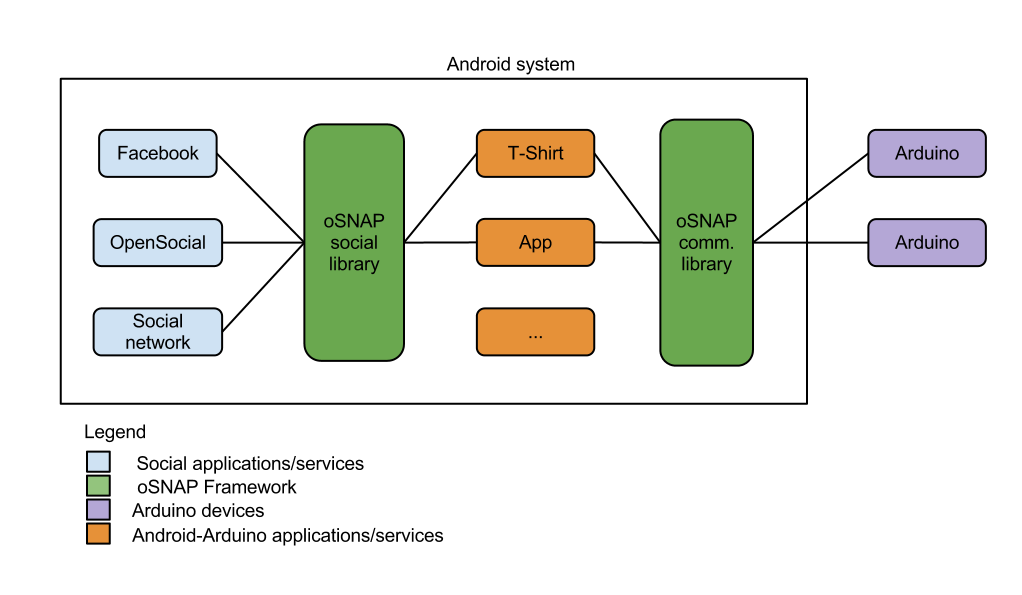
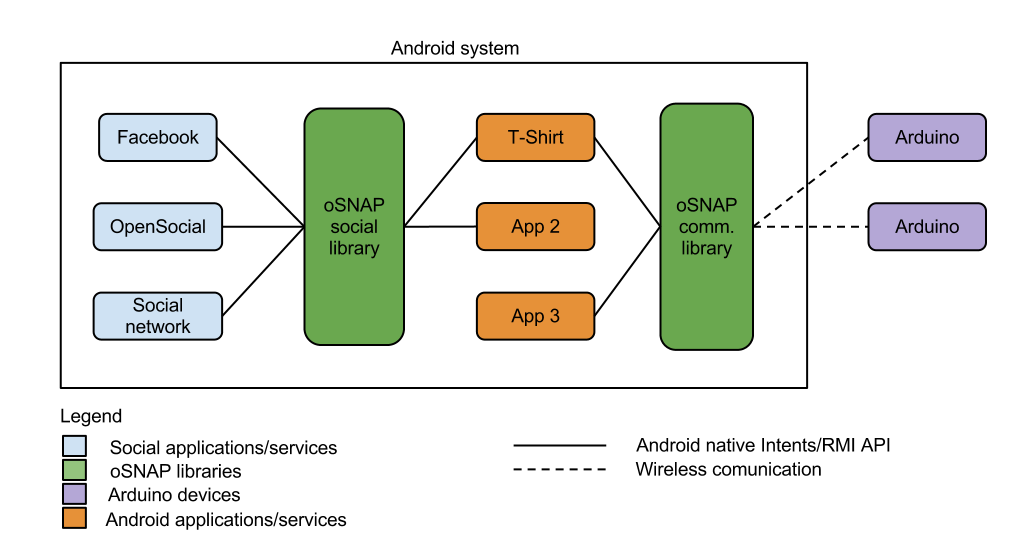
Some more images and stuff.. modified:   files/architecture.tex modified:   files/management.tex new file:   img/architecture-reqresp.png deleted:    img/architecture-toplevel.bak modified:   img/architecture-toplevel.png modified:   img/mgmt-wbs.png new file:   img/use-case1.png new file:   img/use

diff --git a/documentation/report/files/architecture.tex b/documentation/report/files/architecture.tex
@@ -34,17 +34,27 @@ using Android's Intent mechanism, between Social applications and the Android-Ar
 \newpage
 
 \subsection{First design}
-Our first design was based on the scenario where the user would
-download the t-shirt and the social applications and then browse for some content
-from within the social application and actively send it to the t-shirt application
-pressing a 'share' button. This scenario is represented in the following use case.
+Our first design was based on the scenario where the user would download the t-shirt
+and the social applications, browse for some content from within the social application
+and actively send it to the t-shirt application pressing a 'share' button.
+This scenario is represented in the following use case.
 
-use case here
+\begin{figure}[h!]
+\centering \includegraphics[scale=0.35]{img/use-case1.png}
+\caption{Use case for the first design}
+\label{fig:use-case1}
+\end{figure}
 
-
-
+Different sample applications following this design were developed and showed to the
+customer for feedback, and this helped us realize at some point that this design wouldn't fit
+the customer ideas for the final product.
 
 \subsection{Second design}
+During the meetings with the customer, in which we showed him various simple prototype applications
+in order to receive feedback and as much information we could use to proceed with the system design,
+we understood that our first design was not really fitting in the common use-case scenarios
+that the customer came up with. This led to a different design.
+
 
 
 \newpage

diff --git a/documentation/report/files/management.tex b/documentation/report/files/management.tex
@@ -56,15 +56,10 @@ own projects.
 	\item{Documentation:}\newline
 	Every team member produced documentation regarding their work areas and
 	collaborated in writing the reports.
-	\item{Student assistant:} \newline
+	\item{Student assistant:} Njaal C. A. Gjerde\newline
 	Helped us not to fail the exam. Very nice of him :)
+	\item{Customer:} Babak A. Farshchian
 \end{itemize}
-
-\todo 
-{
-describe each of the role... who is the Customer? mention the Student Assistant
-}
-
 
 \section{Milestones}
 \begin{table}
@@ -340,7 +335,7 @@ were made available to everyone using Google Documents.
 \subsection{Work Breakdown Structure}
 
 \begin{figure}[h]
-\centering \includegraphics{img/mgmt-wbs.png}
+\centering \includegraphics[scale=0.30]{img/mgmt-wbs.png}
 \label{fig:mgmt-wbs}
 \end{figure}
 
